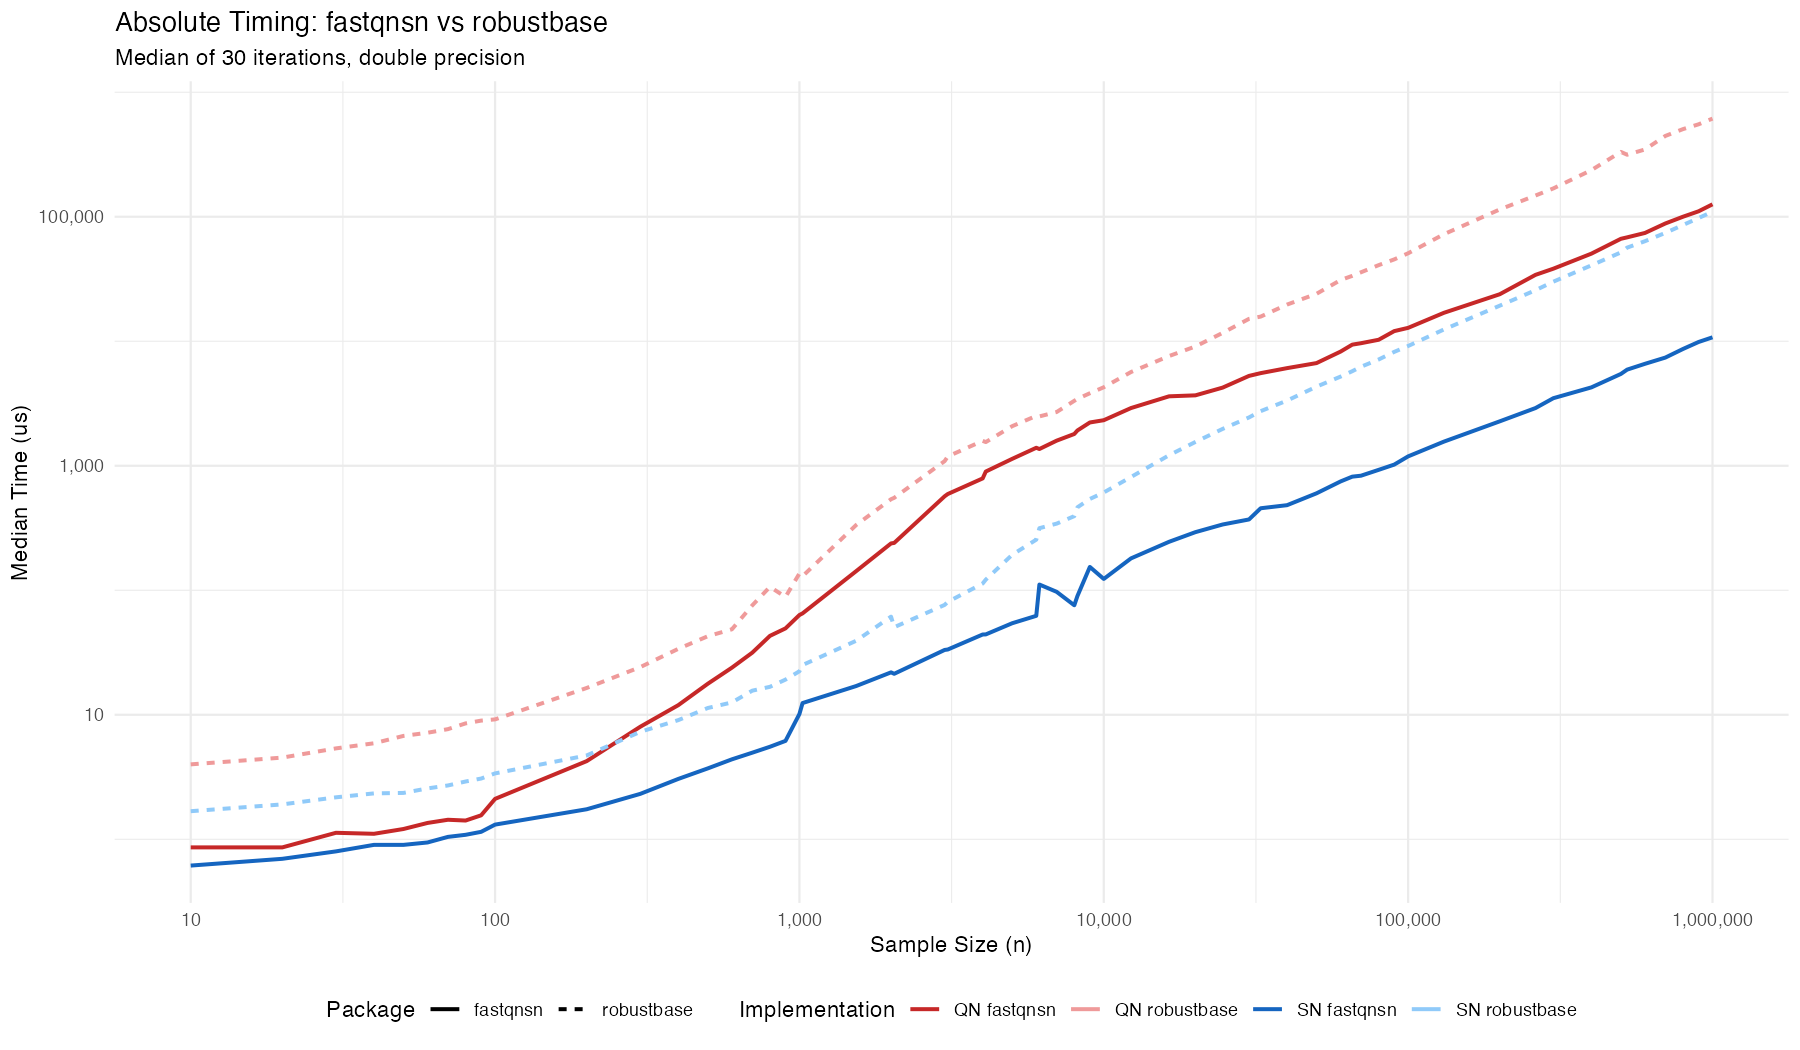
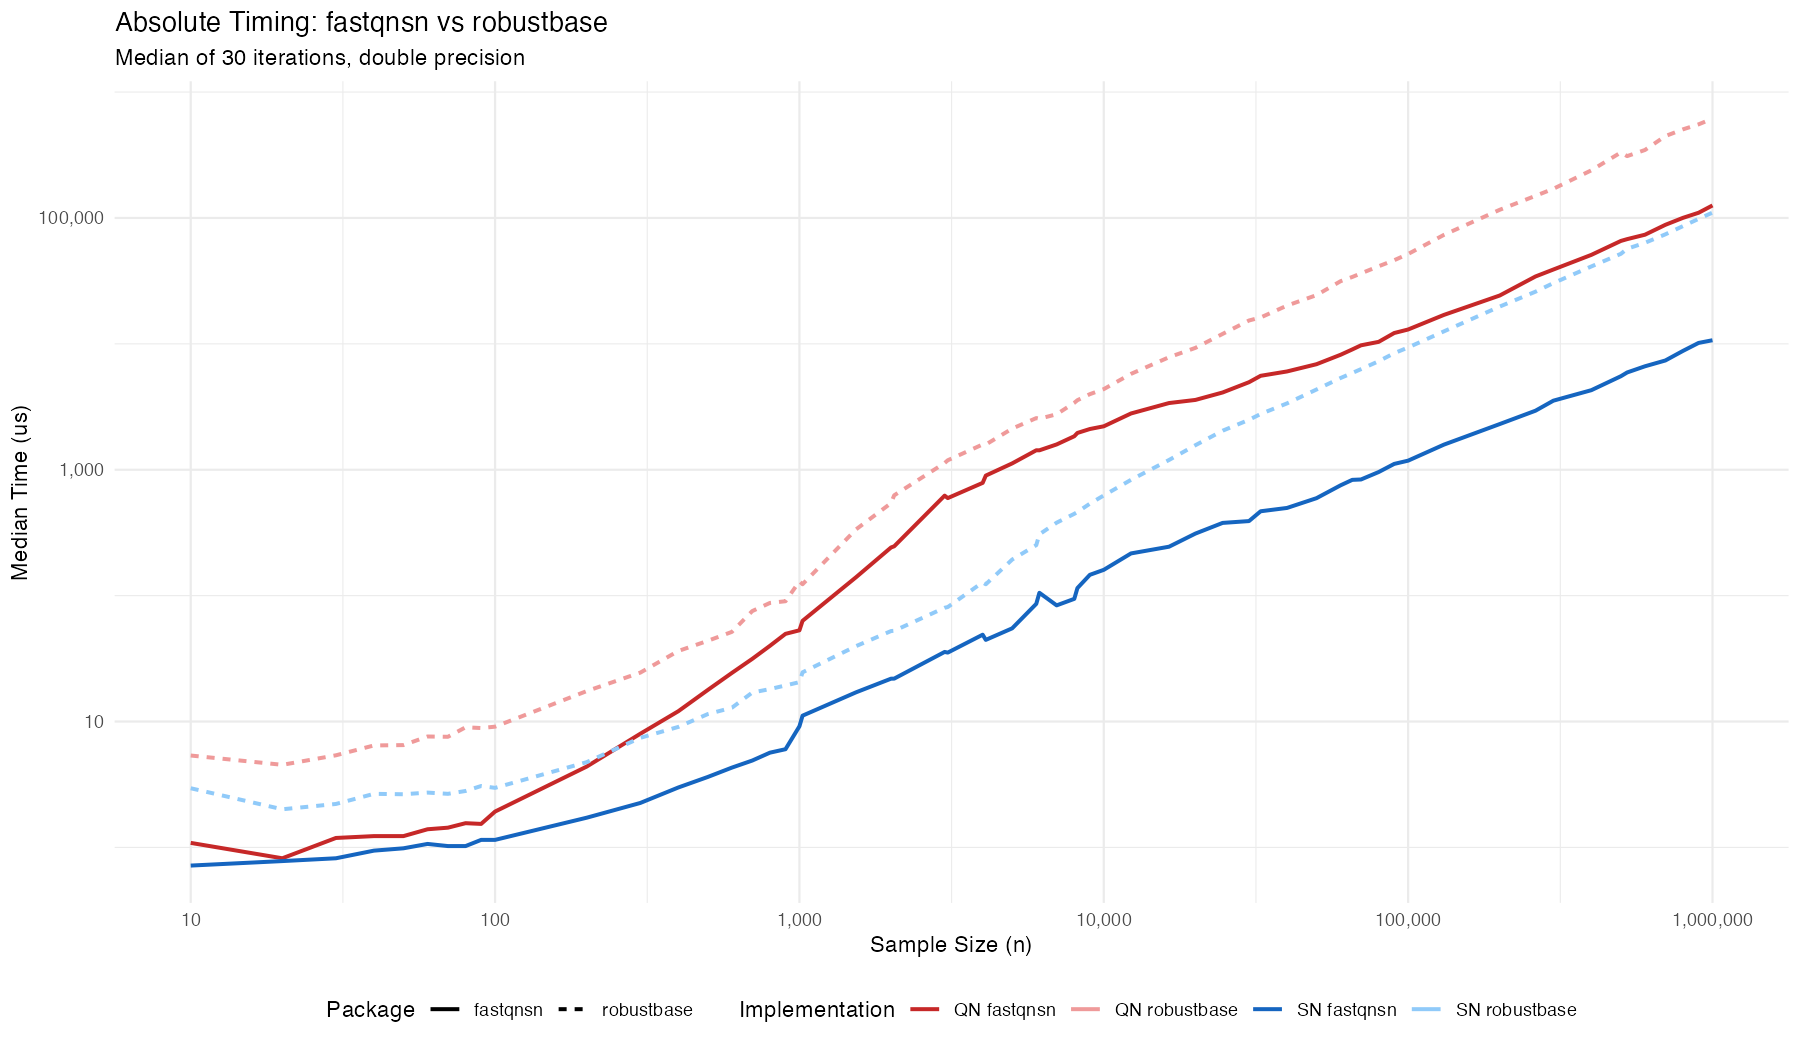
fix: Sn integer tie-sensitivity bug + optimize Qn grain size to 1024
The Sn sweep candidate <= next condition stopped at flat regions
caused by integer ties, producing grain-size-dependent results. Changed
to strict < to advance through flat regions and find the true global
minimum, consistent with the SnWorker binary search which already uses
strict >. Double results are unaffected (ties have probability zero).

Reduced Qn parallelFor/parallelReduce grain size from 2048 to 1024
based on empirical Phase 5 benchmarking (3-6% faster at moderate n,
never worse). Sn grain stays at 2048 (insensitive).

Re-validated against robustbase across 61 sample sizes (n=10 to n=1M):
all speedups > 1.0, no regressions. Updated README benchmark tables.

diff --git a/src/estimators.cpp b/src/estimators.cpp
@@ -110,7 +110,7 @@ template <typename T> struct SnWorker : public Worker {
       while (L < L_max) {
         T next = std::max(sorted_x[i] - sorted_x[L + 1],
                           sorted_x[L + 1 + h] - sorted_x[i]);
-        if (candidate <= next)
+        if (candidate < next)
           break;
         L++;
         candidate = next;
@@ -151,7 +151,7 @@ template <typename T> double C_sn_impl(const T *x_ptr, size_t n) {
       while (L < L_max) {
         T next = std::max(sorted_x[i] - sorted_x[L + 1],
                           sorted_x[L + 1 + h] - sorted_x[i]);
-        if (candidate <= next)
+        if (candidate < next)
           break;
         L++;
         candidate = next;
@@ -426,21 +426,21 @@ template <typename T> double C_qn_impl(const T *x_ptr, size_t n) {
 
     QnCountWorker<T> countWorker(sorted_x, n, trial);
     if (n > fastqnsn::QN_PARALLEL_THRESHOLD)
-      parallelReduce(1, n, countWorker, 2048);
+      parallelReduce(1, n, countWorker, 1024);
     else
       countWorker(1, n);
 
     if (k_target <= countWorker.sumP) {
       QnRefineWorker<T> refineWorker(sorted_x, n, trial, true, right);
       if (n > fastqnsn::QN_PARALLEL_THRESHOLD)
-        parallelFor(1, n, refineWorker, 2048);
+        parallelFor(1, n, refineWorker, 1024);
       else
         refineWorker(1, n);
       nR = countWorker.sumP;
     } else if (k_target > countWorker.sumQ) {
       QnRefineWorker<T> refineWorker(sorted_x, n, trial, false, left);
       if (n > fastqnsn::QN_PARALLEL_THRESHOLD)
-        parallelFor(1, n, refineWorker, 2048);
+        parallelFor(1, n, refineWorker, 1024);
       else
         refineWorker(1, n);
       nL = countWorker.sumQ;

diff --git a/README.md b/README.md
@@ -49,29 +49,29 @@ Validated across 61 sample sizes from $N=10$ to $N=1{,}000{,}000$, both $S_n$ an
 
 | Estimator | Data Type | Min Speedup | At $N$ | Median Speedup | Max Speedup | At $N$ |
 |:---------:|:---------:|:-----------:|:------:|:--------------:|:-----------:|:------:|
-| $S_n$ | double | **2.02x** | 1,024 | **5.30x** | **10.22x** | 1,000,000 |
-| $Q_n$ | double | **1.70x** | 7,000 | **3.24x** | **6.03x** | 80 |
-| $S_n$ | integer | **2.57x** | 100 | **7.90x** | **13.58x** | 1,000,000 |
-| $Q_n$ | integer | **1.47x** | 8,192 | **3.07x** | **5.58x** | 20 |
+| $S_n$ | double | **2.21x** | 1,024 | **3.84x** | **10.32x** | 1,000,000 |
+| $Q_n$ | double | **1.74x** | 7,000 | **3.33x** | **5.78x** | 80 |
+| $S_n$ | integer | **2.52x** | 50 | **5.20x** | **13.09x** | 524,288 |
+| $Q_n$ | integer | **1.38x** | 1,000 | **2.95x** | **5.74x** | 20 |
 
 ### Speedup at Key Sample Sizes (double precision)
 
 | $N$ | $S_n$ Speedup | $Q_n$ Speedup |
 |----:|:-------------:|:-------------:|
-| 10 | 2.73x | 4.64x |
-| 50 | 2.61x | 5.59x |
-| 100 | 2.58x | 4.35x |
-| 500 | 3.06x | 2.41x |
-| 1,000 | 2.20x | 2.16x |
-| 2,048 | 2.37x | 2.30x |
-| 4,096 | 2.75x | 1.72x |
-| 6,144 | 2.84x | 1.83x |
-| 8,192 | 5.16x | 1.79x |
-| 16,384 | 4.96x | 2.11x |
-| 65,536 | 7.03x | 3.57x |
-| 131,072 | 7.96x | 4.28x |
-| 524,288 | 9.55x | 4.61x |
-| 1,000,000 | 10.22x | 4.88x |
+| 10 | 4.11x | 4.94x |
+| 50 | 2.69x | 5.28x |
+| 100 | 2.59x | 4.72x |
+| 500 | 3.16x | 2.46x |
+| 1,000 | 2.24x | 2.45x |
+| 2,048 | 2.40x | 2.54x |
+| 4,096 | 2.76x | 1.76x |
+| 6,144 | 2.91x | 1.78x |
+| 8,192 | 4.02x | 1.82x |
+| 16,384 | 4.89x | 2.31x |
+| 65,536 | 7.06x | 3.76x |
+| 131,072 | 7.94x | 4.32x |
+| 524,288 | 9.61x | 4.56x |
+| 1,000,000 | 10.32x | 4.89x |
 
 ### Extreme Scale ($10^8$ Frontier)
 
@@ -79,8 +79,8 @@ Rigorous testing up to $N=10^8$ confirms `fastqnsn` safely calculates robust sca
 
 | Sample Size ($N$) | Estimator | `robustbase` | `fastqnsn` | Speedup |
 | :---: | :---: | :--- | :--- | :---: |
-| **$10^6$** | $S_n$ | 0.110 s | **0.011 s** | **~10.2x** |
-| | $Q_n$ | 0.614 s | **0.126 s** | **~4.9x** |
+| **$10^6$** | $S_n$ | 0.110 s | **0.011 s** | **~10.3x** |
+| | $Q_n$ | 0.615 s | **0.126 s** | **~4.9x** |
 | **$10^7$** | $S_n$ | 1.715 s | **0.367 s** | **~4.7x** |
 | | $Q_n$ | 22.83 s | **6.54 s** | **~3.5x** |
 | **$10^8$** | $S_n$ | 16.06 s | **3.61 s** | **~4.4x** |
